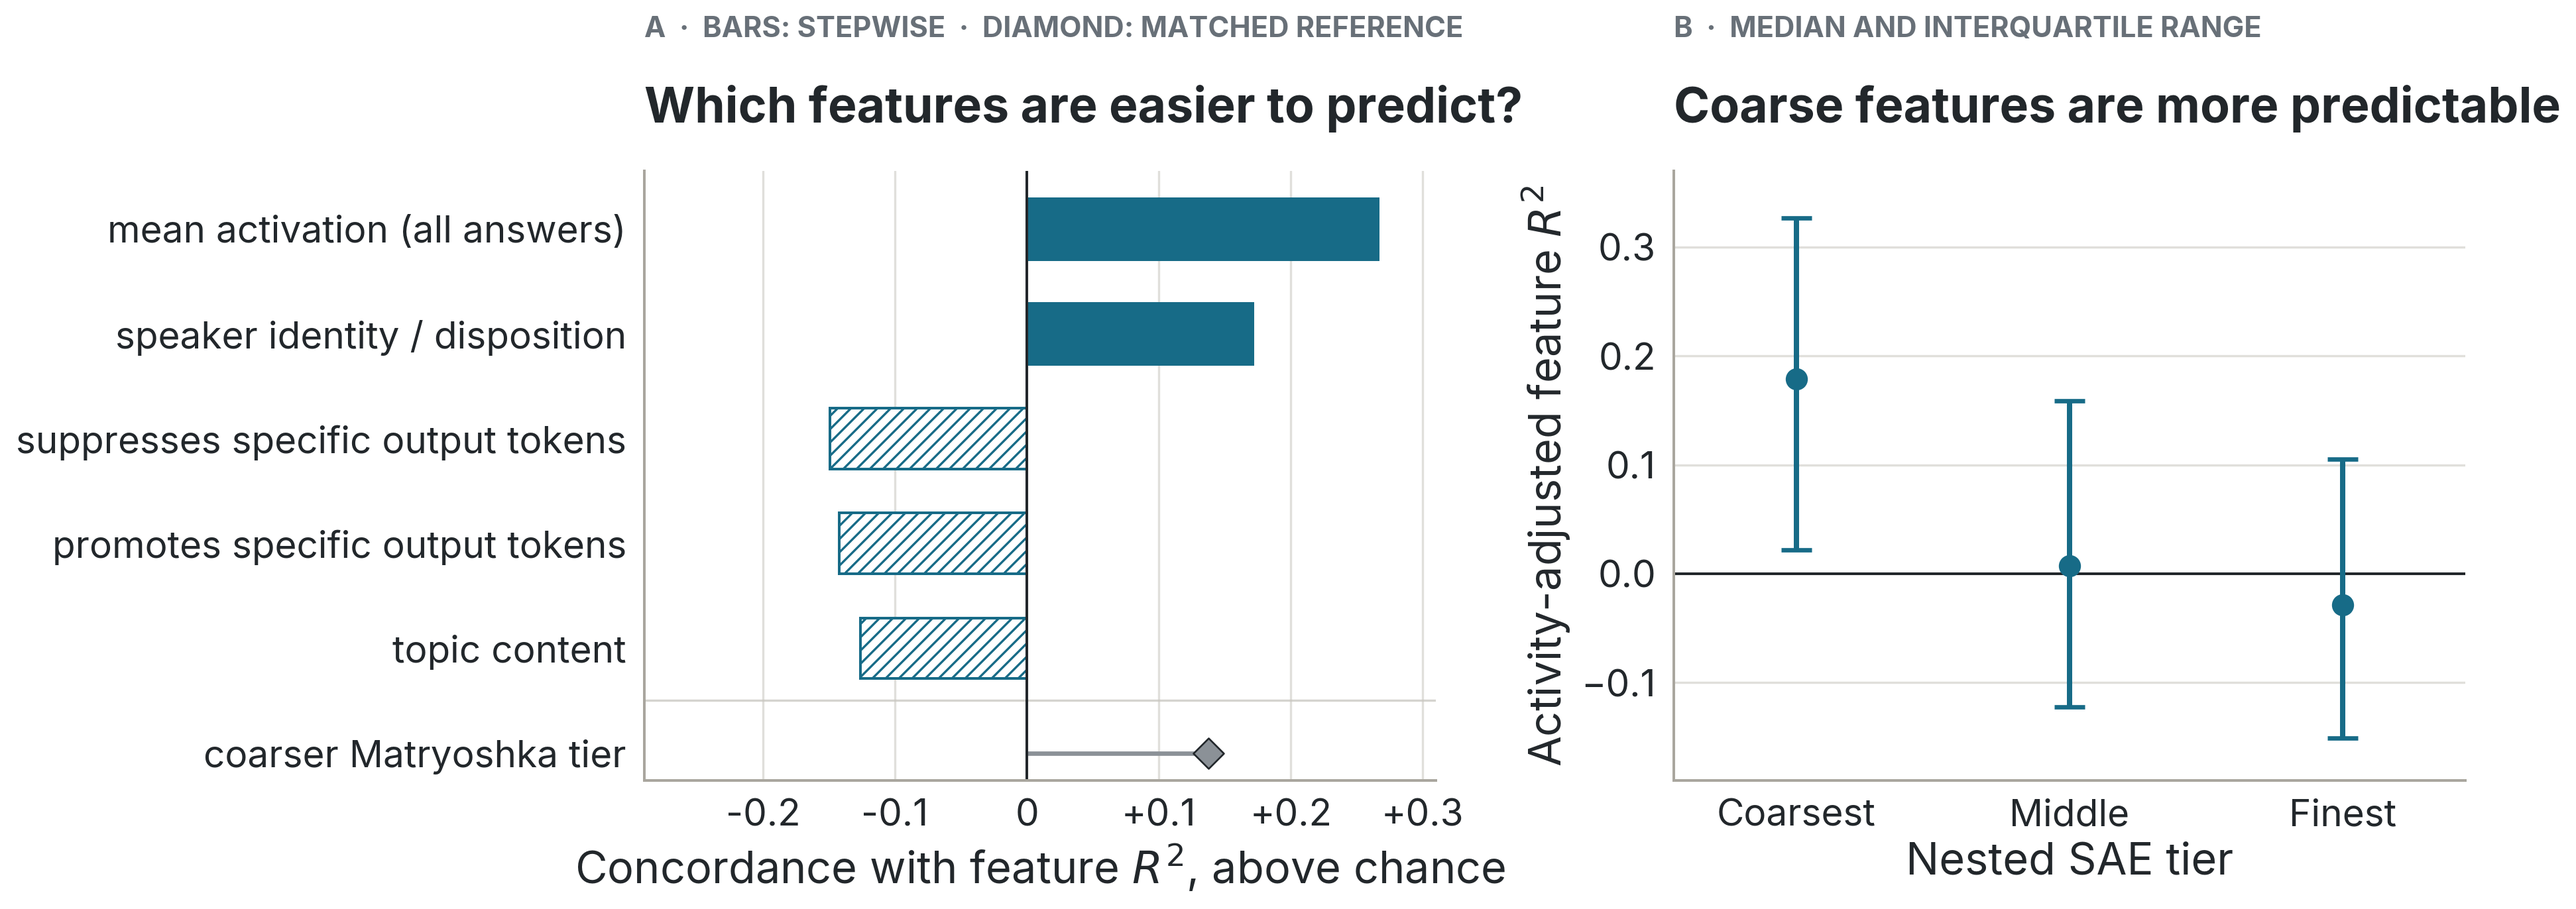
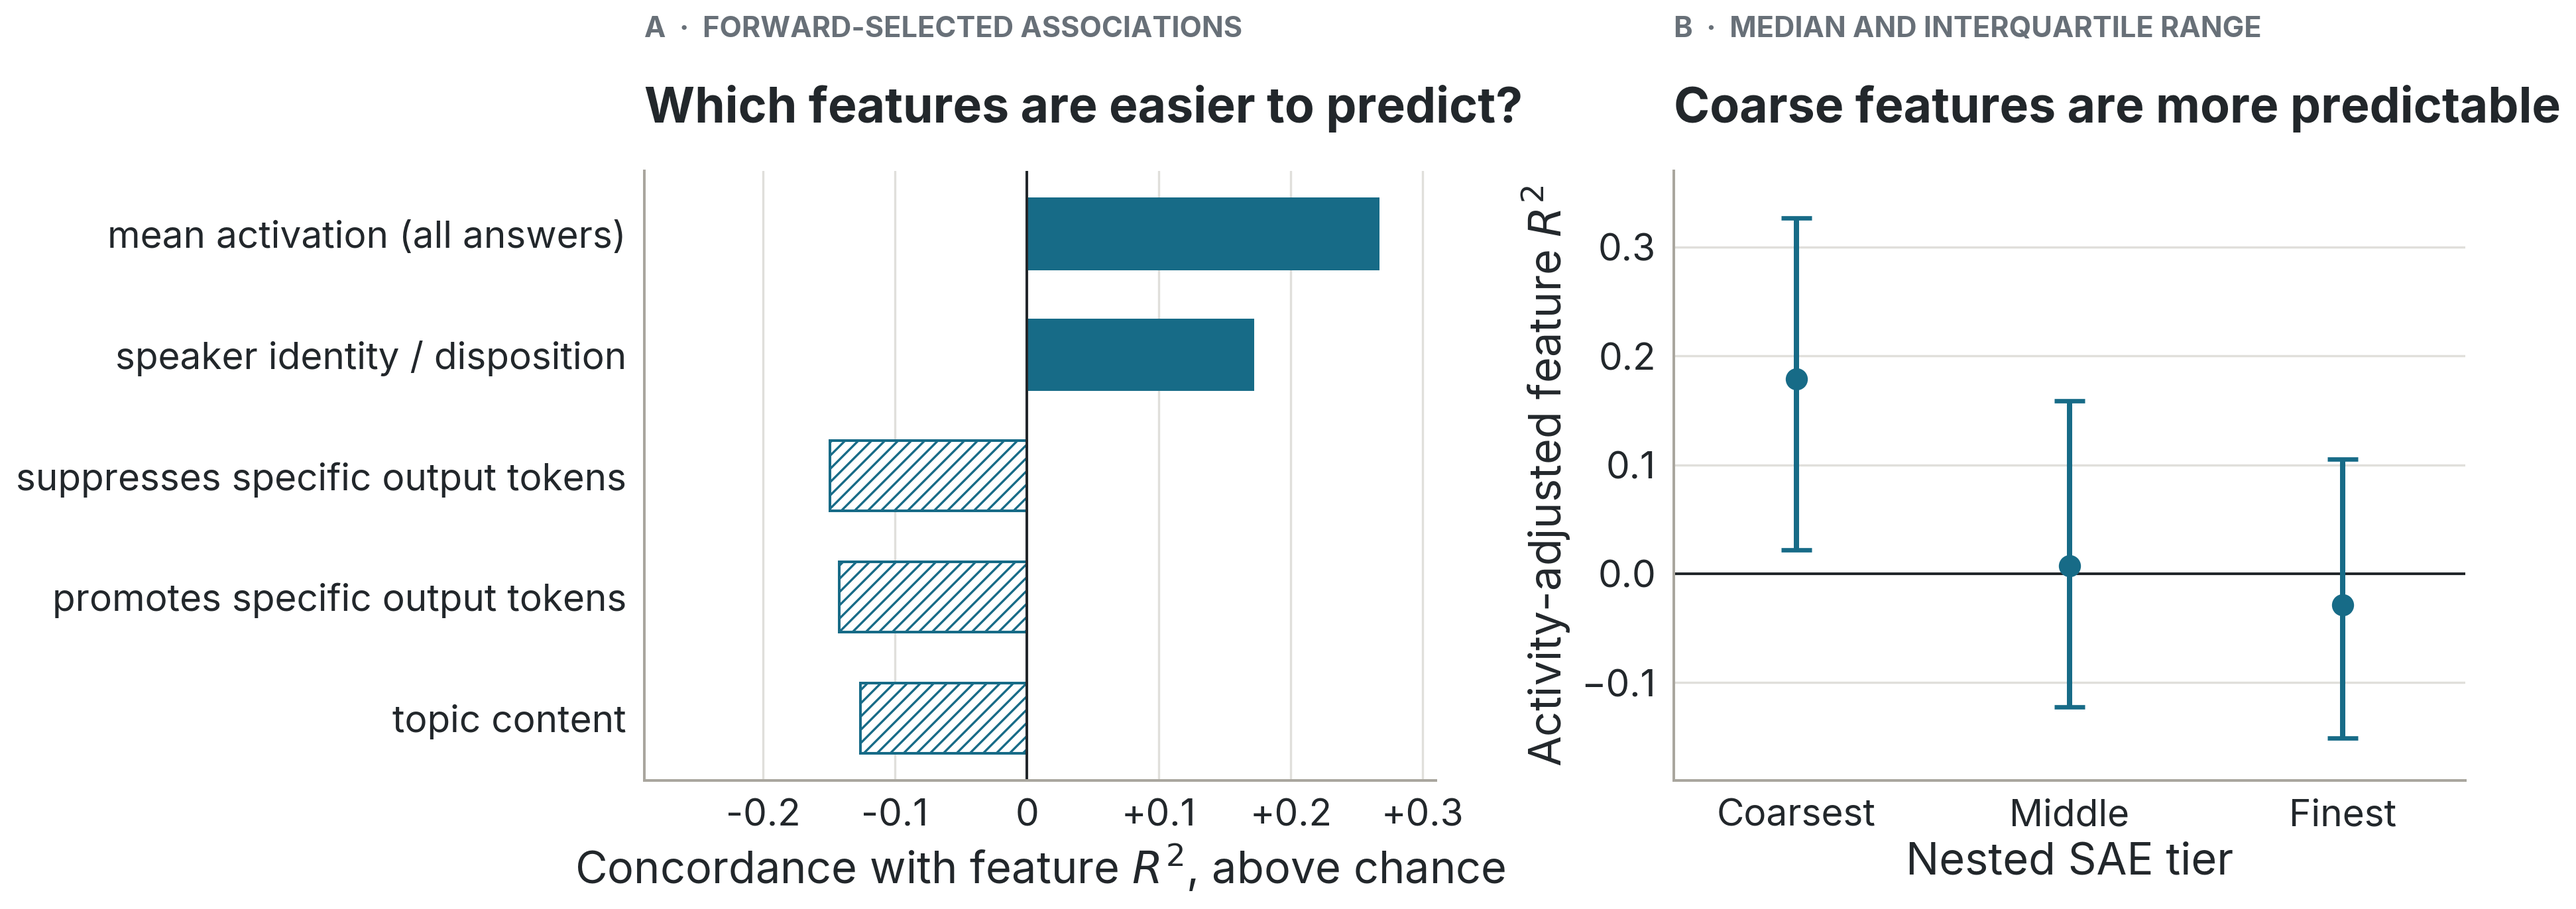
Remove Matryoshka reference from feature plot

diff --git a/scripts/make_paper_section42_figures.py b/scripts/make_paper_section42_figures.py
@@ -42,9 +42,6 @@ from explore_persona_space.analysis.c2a_plot_style import (  # noqa: E402
 DEFAULT_OUT = ROOT / "figures/paper"
 QUAL_SOURCE = ROOT / "eval_results/issue_2478/selected_examples.json"
 SAE_SOURCE = ROOT / "eval_results/issue_1482/plot4_redesign/plot4_redesign.json"
-SAE_MATCHED_SOURCE = (
-    ROOT / "figures/issue_1482/concordance/writeup_concordance.meta.json"
-)
 MINPAIR_SOURCE = ROOT / "eval_results/issue_2564/minpair_delta.json"
 PERSONA_SOURCE = (
     ROOT / "eval_results/issue_2564/floor-failed-reelicitation/minpair_delta_ffr.json"
@@ -319,20 +316,6 @@ def _sae_data() -> dict:
         "left_panel"
     ]["rendered_labels"]
 
-    matched_source = json.loads(SAE_MATCHED_SOURCE.read_text())
-    matryoshka_name = "Matryoshka dictionary tier (coarser = earlier tier)"
-    (matryoshka_source,) = [
-        row for row in matched_source["values"] if row["name"] == matryoshka_name
-    ]
-    matryoshka = {
-        "banked_name": matryoshka_name,
-        "label": "coarser Matryoshka tier",
-        "value": float(matryoshka_source["matched"] - 0.5),
-        "winner_c": float(matryoshka_source["matched"]),
-        "n": int(matryoshka_source["n_pos"]),
-        "kind": "activity-matched reference",
-        "arm": matryoshka_source["arm"],
-    }
     rows = [{**row, "kind": "forward-selected association"} for row in rows]
     tiers = []
     for key, label in (("0", "Coarsest"), ("1", "Middle"), ("2", "Finest")):
@@ -347,7 +330,7 @@ def _sae_data() -> dict:
             }
         )
     return {
-        "properties": [*rows, matryoshka],
+        "properties": rows,
         "hidden_control": hidden_control,
         "tiers": tiers,
         "spearman_raw": float(source["right_panel"]["spearman_tier_r2_raw"]),
@@ -378,30 +361,11 @@ def make_sae_figure(data: dict) -> plt.Figure:
     props = data["properties"]
     y = np.arange(len(props))[::-1]
     values = np.asarray([row["value"] for row in props])
-    bars = ax_left.barh(
-        y[:-1],
-        values[:-1],
-        height=0.58,
-        color=LINEAR,
-        edgecolor=LINEAR,
-        linewidth=1.2,
-    )
-    for bar, value in zip(bars, values[:-1], strict=True):
+    bars = ax_left.barh(y, values, height=0.58, color=LINEAR, edgecolor=LINEAR, linewidth=1.2)
+    for bar, value in zip(bars, values, strict=True):
         if value < 0:
             bar.set_facecolor(PAPER)
             bar.set_hatch("////")
-    ax_left.axhline(0.5, color=GRID, lw=1.0, alpha=0.75)
-    ax_left.hlines(y[-1], 0, values[-1], color=CONTROL, lw=2.0, zorder=2)
-    ax_left.scatter(
-        values[-1],
-        y[-1],
-        marker="D",
-        s=95,
-        color=CONTROL,
-        edgecolor=INK,
-        linewidth=0.8,
-        zorder=3,
-    )
     ax_left.axvline(0, color=INK, lw=1.2)
     ax_left.set_yticks(y, [row["label"] for row in props])
     ax_left.set_xlim(-0.29, 0.31)
@@ -413,7 +377,7 @@ def make_sae_figure(data: dict) -> plt.Figure:
     ax_left.text(
         0,
         1.21,
-        "A  ·  BARS: STEPWISE  ·  DIAMOND: MATCHED REFERENCE",
+        "A  ·  FORWARD-SELECTED ASSOCIATIONS",
         transform=ax_left.transAxes,
         fontsize=13,
         fontweight=750,
@@ -667,7 +631,7 @@ def main() -> None:
         title="SAE feature properties and context-to-answer predictability",
         subject="Conditional feature-property associations and activity-adjusted nested-tier gradient",
         font=font,
-        sources=[SAE_SOURCE, SAE_MATCHED_SOURCE],
+        sources=[SAE_SOURCE],
         displayed_data=sae,
         rendering_size=(14.4, 6.5),
     )
